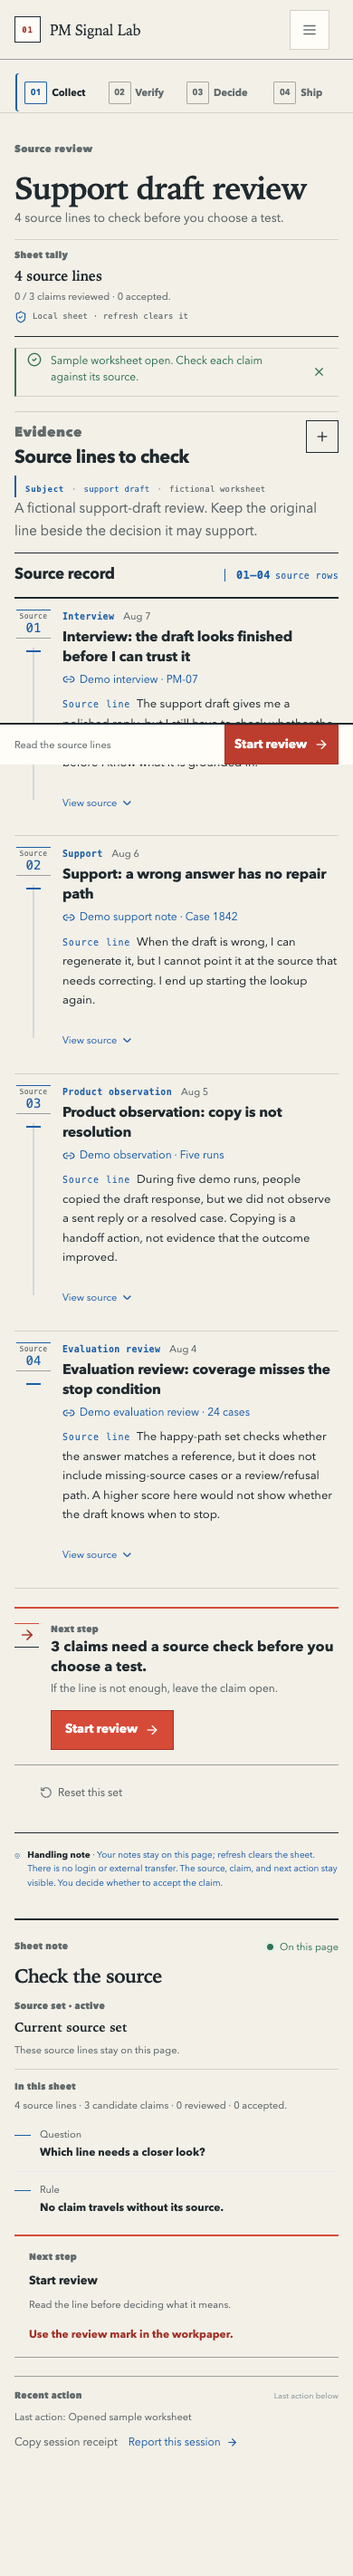
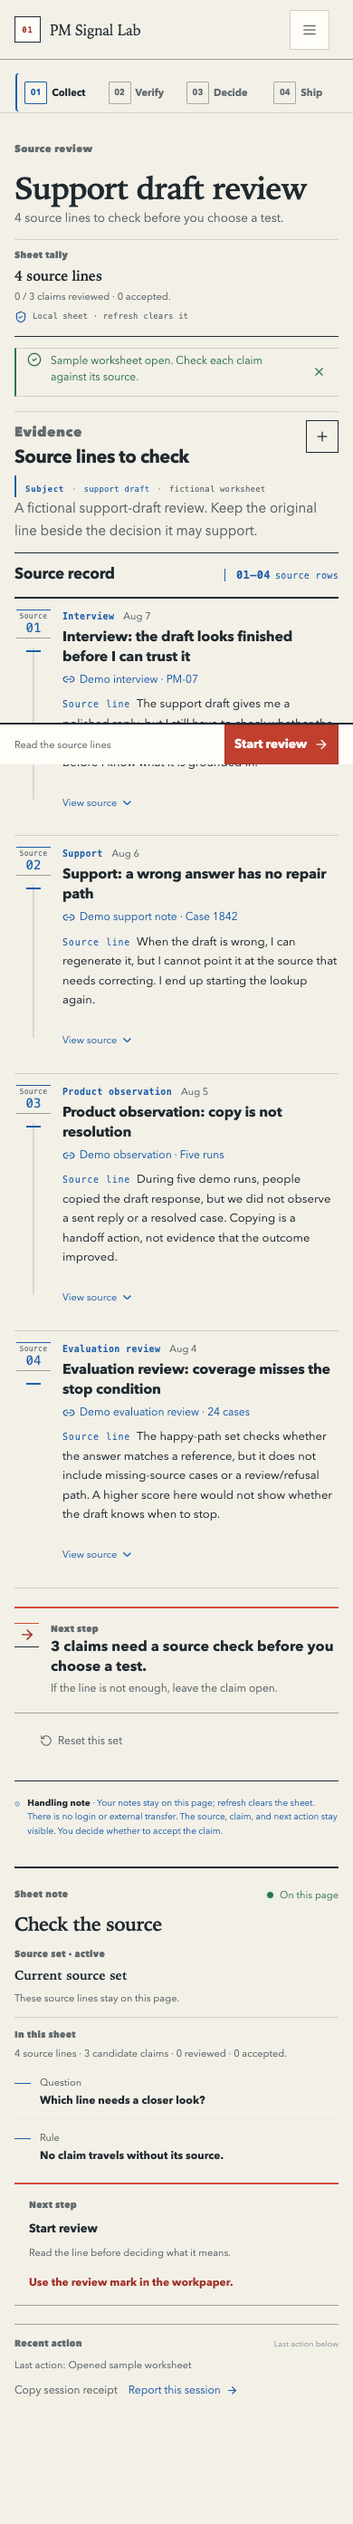
Make current action ownership explicit

diff --git a/src/App.tsx b/src/App.tsx
@@ -671,7 +671,6 @@ function App() {
                 <p>{pack ? `${reviewedCount} / ${claims.length} claims reviewed · ${supportedCount} accepted.` : "Start with the sample or write down one real line from the work."}</p>
                 <span className="hero-status-boundary"><ShieldCheck size={14} aria-hidden="true" />{pack ? "Local sheet · refresh clears it" : SESSION_BOUNDARY_SHORT}</span>
                 {!pack && <div className="hero-status-actions"><button className="button button-primary" type="button" onClick={loadSample} disabled={isLoading}><ClipboardList size={16} aria-hidden="true" />Open the sample worksheet<ArrowRight size={15} aria-hidden="true" /></button></div>}
-                {pack && currentStep === "collect" && claims.length > 0 && <div className="hero-status-actions hero-status-start-review"><button className="button button-primary" type="button" onClick={startReview} data-current-action>Start review<ArrowRight size={15} aria-hidden="true" /></button></div>}
               </div>
             </div>
 

diff --git a/src/styles.css b/src/styles.css
@@ -4213,6 +4213,12 @@ textarea {
   .context-next .context-next-action {
     display: none;
   }
+
+  /* The fixed bar owns the mobile next action. Keep the source-row note
+     useful, but do not ask the user to choose between two identical buttons. */
+  .workbench.is-loaded .next-action-card .button {
+    display: none;
+  }
 }
 
 /* The main landmark receives focus after a state change so screen-reader and

diff --git a/scripts/verify-source-sheet-truth.py b/scripts/verify-source-sheet-truth.py
@@ -65,6 +65,8 @@ def run_custom_source_flow(page: Page, screenshot_name: str) -> dict[str, object
         "sample_heading_absent": "Support draft review" not in text,
         "sample_boundary_absent": "fictional worksheet" not in text,
         "subject_aria_label": aria_label,
+        "visible_current_actions": page.locator("[data-current-action]:visible").count(),
+        "source_row_action_hidden": not page.locator(".next-action-card .button").is_visible(),
     }
 
 
@@ -97,6 +99,8 @@ def run_sample_source_flow(page: Page, screenshot_name: str) -> dict[str, object
         "custom_boundary_absent": "local sheet" not in text,
         "subject_aria_label": aria_label,
         "owner_value": owner_value,
+        "visible_current_actions": page.locator("[data-current-action]:visible").count(),
+        "hero_action_absent": page.locator(".hero-status .button").count() == 0,
     }
 
 
@@ -147,6 +151,8 @@ with sync_playwright() as playwright:
     assert custom_result["sample_heading_absent"] is True
     assert custom_result["sample_boundary_absent"] is True
     assert custom_result["subject_aria_label"] == "Sheet: your source notes, local sheet"
+    assert custom_result["visible_current_actions"] == 1
+    assert custom_result["source_row_action_hidden"] is True
     assert sample_result["heading_present"] is True
     assert sample_result["sample_subject_present"] is True
     assert sample_result["sample_boundary_present"] is True
@@ -154,6 +160,8 @@ with sync_playwright() as playwright:
     assert sample_result["custom_boundary_absent"] is True
     assert sample_result["subject_aria_label"] == "Subject: support draft, fictional worksheet"
     assert sample_result["owner_value"] == "Owner to confirm before the test"
+    assert sample_result["visible_current_actions"] == 1
+    assert sample_result["hero_action_absent"] is True
     assert browser_errors == []
     assert request_failures == []
 

diff --git a/docs/product/pm-signal-lab/111-single-primary-action-ownership-local-qa-2026-08-16.md b/docs/product/pm-signal-lab/111-single-primary-action-ownership-local-qa-2026-08-16.md
@@ -1,0 +1,142 @@
+# PM Signal Lab — Single-primary-action ownership local QA — 2026-08-16
+
+## Result
+
+The action-ownership correction passes the local candidate gate. The loaded
+worksheet now exposes one visible current action at the tested mobile and
+desktop widths:
+
+- `390×844`: the fixed bottom bar owns `Start review`; the source-row block
+  keeps the next-step explanation but its duplicate button is not visible.
+- `1440×1000`: the source-row `Next step` block owns `Start review`; the hero
+  `Sheet tally` has no action button.
+
+The source identity checks still pass, the workflow transition remains usable,
+and no browser error or request failure was observed. This is local evidence,
+not a hosted release or a non-owner usability result.
+
+## Finding and fix
+
+Fresh visual review found the same primary action repeated in multiple places:
+the loaded desktop hero and source-row block both showed `Start review`; the
+loaded mobile screen showed the source-row button and the fixed bottom action.
+The correction removes only the duplicate render locations. It preserves the
+existing `nextAction` callbacks, source-row explanation, fixed mobile action,
+and downstream `Collect → Verify → Decide → Ship` flow.
+
+## Acceptance matrix
+
+| Case | Starting state and task | Expected oracle | Result | Evidence |
+| --- | --- | --- | --- | --- |
+| QA-ACTION-001 | Manual source saved at `390×844` | Exactly one visible `[data-current-action]`; source-row button hidden; fixed bar says `Start review` | PASS | `npm run verify:source-truth`; custom 390 screenshot |
+| QA-ACTION-002 | Sample opened at `1440×1000` | Exactly one visible `[data-current-action]`; hero has no action button; source-row button remains | PASS | `npm run verify:source-truth`; sample 1440 screenshot |
+| QA-ACTION-003 | Loaded normal flow at `390`, `1024`, `1440` | No horizontal overflow; mobile bar only appears at mobile breakpoint | PASS | `/tmp/pm-signal-lab-margin-qa.py` |
+| QA-ACTION-004 | Source identity and owner regression | Manual/sample labels remain mutually exclusive; owner remains actionable | PASS | `npm run verify:source-truth` |
+| QA-ACTION-005 | Loading, reset, and replacement | Existing action disablement, static marker, and clean reset remain intact | PASS | `python3 scripts/verify-session-boundary.py` |
+| QA-ACTION-006 | Empty validation, manual reset, refresh, missing evidence | Existing recovery routes remain usable | PASS | `/tmp/pm-signal-lab-edge-qa.py` |
+| QA-ACTION-007 | Production candidate and code hygiene | Tests, lint, build, local copy verifier, and diff check pass | PASS | Commands below |
+| QA-ACTION-008 | Preferred Chrome Extension route | Same flow through the preferred extension harness | BLOCKED | Extension route unavailable in this runtime; Chrome fallback is recorded separately |
+| QA-ACTION-009 | Native AT and physical device | VoiceOver/NVDA/TalkBack and touch behavior | NOT EXECUTED | No native AT or physical-device harness used |
+| QA-ACTION-010 | Canonical Pages readback | Current action ownership is present on the public URL | BLOCKED | Pages still serves the prior bundle; merge/deploy requires explicit approval |
+| QA-ACTION-011 | Non-owner PM preference | Participant can find the one next action without instruction | NOT EXECUTED | Pilot is prepared but no participant evidence was collected |
+
+## Browser and visual evidence
+
+Focused source-truth oracle output:
+
+```text
+custom_source_390:
+  visible_current_actions=1
+  source_row_action_hidden=true
+sample_source_1440:
+  visible_current_actions=1
+  hero_action_absent=true
+browser_errors=[]
+request_failures=[]
+```
+
+Fresh artifacts:
+
+- [manual source sheet at 390px](./assets/qa/custom-source-sheet-truth-390-2026-08-16.png)
+- [fictional sample at 1440px](./assets/qa/custom-source-sheet-truth-sample-1440-2026-08-16.png)
+- [loading guard at 390px](./assets/qa/session-boundary-loading-guard-loading-390-2026-08-16.png)
+
+Visual review checked:
+
+- first read: source title and source record remain ahead of the action;
+- action hierarchy: one red primary action per tested viewport;
+- source relationship: the desktop action stays beside the object it advances;
+- mobile reflow: the fixed bar remains reachable and the source-row block does
+  not leave a blank red-action gap;
+- trust: no assistant badge, confidence meter, spinner, activity feed, or new
+  status layer was introduced;
+- responsive safety: no horizontal clipping or screenshot-only layout trick.
+
+## Command evidence
+
+All commands below ran against the current local production preview at
+`http://127.0.0.1:4179/`, `en-US`, with synthetic privacy-safe input only.
+
+```text
+npm test -- --run
+  4 files passed · 11 tests passed
+
+npm run lint
+  tsc --noEmit passed
+
+npm run build
+  Vite 7.3.6 · index-5r46Fikq.js · index-ByNjNY-f.css
+
+HOSTED_URL=http://127.0.0.1:4179/ npm run verify:hosted
+  HTTP 200 · en-US · current copy present · stale copy absent
+  canonical_https=false (expected for localhost)
+
+npm run verify:source-truth
+  visible_current_actions=1 at 390px and 1440px
+  source_row_action_hidden=true at 390px
+  hero_action_absent=true at 1440px
+  browser_errors=[] · request_failures=[]
+
+python3 scripts/verify-session-boundary.py
+  loading/reset boundary passed
+  sample_button_disabled_during_loading=true
+  loading_marker_animation=none
+  expanded_source_after_reset=false
+  browser_errors=[] · request_failures=[]
+
+python3 /tmp/pm-signal-lab-margin-qa.py
+  blank → sample → source disclosure → Verify → accept → Decide → draft → Ship
+  390/1024/1440 responsive checks passed; overflow=false; errors/failures=[]
+
+python3 /tmp/pm-signal-lab-edge-qa.py
+  empty validation, cancel, manual reset, refresh clear, missing evidence passed
+
+git diff --check
+  passed
+```
+
+## QA layer summary
+
+| Layer | Status | Boundary |
+| --- | --- | --- |
+| Domain / type / build | PASS | No domain model or dependency changed. |
+| Browser behavior | PASS | Playwright with local Google Chrome fallback; visible action-count and full workflow checks executed. |
+| Responsive behavior | PASS for emulated widths | `390`, `1024`, and `1440` passed; physical device remains separate. |
+| Accessibility semantics | PASS in fallback | Labels, focus path, landmarks, and hidden duplicate control were checked; native speech unexecuted. |
+| Visual review | PASS for focused slice | Fresh 390/1440 screenshots inspected; no automated pixel baseline is claimed. |
+| Security/privacy | PASS for current boundary | No external request, upload, persistence, secret, provider, or mutation added. |
+| Hosted release | BLOCKED | Canonical Pages remains stale; no merge/deploy in this slice. |
+| Chrome Extension | BLOCKED | Preferred harness unavailable. |
+| Real PM learning | NOT EXECUTED | No non-owner participant sessions or preference evidence. |
+| Adoption / stars | NOT EXECUTED | Local QA is not growth evidence; current public repo stats are not changed by this slice. |
+
+## Rollback and next learning step
+
+Rollback is a focused source/CSS/oracle revert; no data migration or external
+cleanup is required. The next learning step is not another visual embellishment:
+after an approved hosted release, run the prepared international PM sessions
+and record whether users identify the source-row action on desktop and the
+fixed action on mobile without a walkthrough.
+
+This report does not claim the product is bug-free, hosted, officially
+released, adopted, viral, or on a proven path to 10,000 GitHub stars.

diff --git a/README.md b/README.md
@@ -2,7 +2,7 @@
 
 > Keep the source line attached to the decision it may support.
 
-Latest candidate evidence: [custom source-sheet truth contract](./docs/product/pm-signal-lab/108-custom-source-sheet-truth-contract-2026-08-16.md), [custom source-sheet truth local QA](./docs/product/pm-signal-lab/109-custom-source-sheet-truth-local-qa-2026-08-16.md), [static loading-marker contract](./docs/product/pm-signal-lab/106-static-loading-marker-contract-2026-08-16.md), [static loading-marker local QA](./docs/product/pm-signal-lab/107-static-loading-marker-local-qa-2026-08-16.md), [session-boundary reset and loading-guard contract](./docs/product/pm-signal-lab/104-session-boundary-reset-and-loading-guard-contract-2026-08-16.md), and the [machine-readable QA evidence manifest](./docs/product/pm-signal-lab/qa-evidence-manifest-2026-08-16.json). The current local candidate passed the source-identity browser oracle at `390×844` and `1440×1000`, plus the existing normal, edge, responsive, semantic, session-boundary, static-loading, and local production-preview copy checks; the preferred Chrome Extension route and canonical Pages behavior still require separate evidence.
+Latest candidate evidence: [single-primary-action ownership contract](./docs/product/pm-signal-lab/110-single-primary-action-ownership-contract-2026-08-16.md), [single-primary-action ownership local QA](./docs/product/pm-signal-lab/111-single-primary-action-ownership-local-qa-2026-08-16.md), [custom source-sheet truth contract](./docs/product/pm-signal-lab/108-custom-source-sheet-truth-contract-2026-08-16.md), [custom source-sheet truth local QA](./docs/product/pm-signal-lab/109-custom-source-sheet-truth-local-qa-2026-08-16.md), [static loading-marker contract](./docs/product/pm-signal-lab/106-static-loading-marker-contract-2026-08-16.md), [static loading-marker local QA](./docs/product/pm-signal-lab/107-static-loading-marker-local-qa-2026-08-16.md), [session-boundary reset and loading-guard contract](./docs/product/pm-signal-lab/104-session-boundary-reset-and-loading-guard-contract-2026-08-16.md), and the [machine-readable QA evidence manifest](./docs/product/pm-signal-lab/qa-evidence-manifest-2026-08-16.json). The current local candidate passed the source-identity and action-ownership browser oracle at `390×844` and `1440×1000`, plus the existing normal, edge, responsive, semantic, session-boundary, static-loading, and local production-preview copy checks; the preferred Chrome Extension route and canonical Pages behavior still require separate evidence.
 
 PM Signal Lab is a local-first product evidence worksheet for turning raw signals into source-linked claims, human review decisions, and the smallest next test. The public fixture uses a fictional support-draft review because the portfolio is meant to show AI-PM judgment; the working surface leads with the PM case and keeps AI context out of the visual chrome.
 
@@ -16,7 +16,7 @@ PM Signal Lab is a local-first product evidence worksheet for turning raw signal
 
 **International pilot operations:** The human-reviewed channel drafts, evidence-safe message contract, and weekly learning loop are in the [international pilot launch kit](./docs/operations/international-pilot-launch-kit-2026-08-15.md).
 
-**Design and QA evidence:** The current visual direction and current-turn evidence are in the [custom source-sheet truth contract](./docs/product/pm-signal-lab/108-custom-source-sheet-truth-contract-2026-08-16.md), [custom source-sheet truth local QA](./docs/product/pm-signal-lab/109-custom-source-sheet-truth-local-qa-2026-08-16.md), [static loading-marker contract](./docs/product/pm-signal-lab/106-static-loading-marker-contract-2026-08-16.md), [static loading-marker local QA](./docs/product/pm-signal-lab/107-static-loading-marker-local-qa-2026-08-16.md), [session-boundary reset and loading-guard contract](./docs/product/pm-signal-lab/104-session-boundary-reset-and-loading-guard-contract-2026-08-16.md), and [QA evidence manifest](./docs/product/pm-signal-lab/qa-evidence-manifest-2026-08-16.json). The preceding [less-AI workpaper second-polish contract](./docs/product/pm-signal-lab/100-less-ai-workpaper-second-polish-contract-2026-08-16.md), [local QA report](./docs/product/pm-signal-lab/101-less-ai-workpaper-second-polish-local-qa-2026-08-16.md), [source-first chrome simplification contract](./docs/product/pm-signal-lab/98-source-first-chrome-simplification-contract-2026-08-16.md), and [local QA report](./docs/product/pm-signal-lab/99-source-first-chrome-simplification-local-qa-2026-08-16.md) remain as the release trail.
+**Design and QA evidence:** The current visual direction and current-turn evidence are in the [single-primary-action ownership contract](./docs/product/pm-signal-lab/110-single-primary-action-ownership-contract-2026-08-16.md), [single-primary-action ownership local QA](./docs/product/pm-signal-lab/111-single-primary-action-ownership-local-qa-2026-08-16.md), [custom source-sheet truth contract](./docs/product/pm-signal-lab/108-custom-source-sheet-truth-contract-2026-08-16.md), [custom source-sheet truth local QA](./docs/product/pm-signal-lab/109-custom-source-sheet-truth-local-qa-2026-08-16.md), [static loading-marker contract](./docs/product/pm-signal-lab/106-static-loading-marker-contract-2026-08-16.md), [static loading-marker local QA](./docs/product/pm-signal-lab/107-static-loading-marker-local-qa-2026-08-16.md), [session-boundary reset and loading-guard contract](./docs/product/pm-signal-lab/104-session-boundary-reset-and-loading-guard-contract-2026-08-16.md), and [QA evidence manifest](./docs/product/pm-signal-lab/qa-evidence-manifest-2026-08-16.json). The preceding [less-AI workpaper second-polish contract](./docs/product/pm-signal-lab/100-less-ai-workpaper-second-polish-contract-2026-08-16.md), [local QA report](./docs/product/pm-signal-lab/101-less-ai-workpaper-second-polish-local-qa-2026-08-16.md), [source-first chrome simplification contract](./docs/product/pm-signal-lab/98-source-first-chrome-simplification-contract-2026-08-16.md), and [local QA report](./docs/product/pm-signal-lab/99-source-first-chrome-simplification-local-qa-2026-08-16.md) remain as the release trail.
 
 This is an AI product manager portfolio project by [John Wu](https://github.com/asdc163). The product demonstrates evidence handling, uncertainty, experiment design, and honest handoff. It does not pretend that a deterministic fixture is a model, that a copied summary is adoption, or that an exported brief is a completed decision.
 

diff --git a/DESIGN.md b/DESIGN.md
@@ -44,14 +44,15 @@ The visual signature is a quiet workpaper: the workflow is a thin paper index, t
 - First read: `Support draft review` under the `Source review` label when loaded, or `Start with a source line` on first run; the workflow index remains quiet context.
 - Manual-source first read: after a visitor saves their own line, use `Your source sheet` and `your source notes · local sheet`; never reuse the fictional sample's subject labels for a custom pack.
 - Second read: the case subject, source rows, source mapping, date, limitation, and review mark.
-- Primary action: one step-specific CTA; loaded desktop exposes `Start review`
-  beside the `Sheet tally`, while mobile keeps the fixed action bar.
+- Primary action: one step-specific CTA; loaded desktop places `Start review`
+  after the source record, while mobile keeps the fixed action bar. The
+  `Sheet tally` is status only and never competes with the source action.
 - Content relationship: `Source → Claim → Smallest test`; use a stepper, rows, split areas, and definition lists before adding cards.
 - Desktop density: medium-high. Mobile density: stacked medium.
 - Alignment spine: `Source review` label → case title → `Source lines to check` → ruled source record. The workflow index is navigation, not a persistent dashboard rail; the `Sheet note` stays below the workpaper.
 - Layout archetype: quiet workpaper + index strip + annotated source rows + desk summary.
 - Responsive reflow: the desktop index becomes the existing top stepper below 1024px; the desk summary remains below the workbench; the primary CTA becomes the single sticky bottom action on mobile while the context note keeps only the question and rule.
-- Loaded state: when the pack exists, the masthead uses `Support draft review` once, the pack header uses the `Evidence` eyebrow plus `Source lines to check`, and the subject line identifies `support draft · fictional worksheet`. The desktop topbar keeps only the local worksheet boundary instead of repeating the case title. AI-PM framing remains in the repository and fixture boundary, not as a visual badge. The source lines end in a `Next step` with the actual claim count and the primary `Start review` action; the `Sheet note` records one question, one rule, actual counts, and the current next action. This is domain-state reflow, not fake AI activity.
+- Loaded state: when the pack exists, the masthead uses `Support draft review` once, the pack header uses the `Evidence` eyebrow plus `Source lines to check`, and the subject line identifies `support draft · fictional worksheet`. The desktop topbar keeps only the local worksheet boundary instead of repeating the case title. AI-PM framing remains in the repository and fixture boundary, not as a visual badge. The `Sheet tally` reports the current state without an action; the source lines end in a `Next step` with the actual claim count and the only desktop `Start review` action; the `Sheet note` records one question, one rule, actual counts, and the current next action. This is domain-state reflow, not fake AI activity.
 - Manual source state: when the pack was created from visitor-entered evidence, the masthead uses `Your source sheet`, the subject line uses `your source notes · local sheet`, and the sample-only `fictional worksheet` boundary is absent. The evidence row remains literal and the local refresh-clears boundary stays adjacent to the source.
 - Operational worksheet reframe: the loaded hero uses `Source review` and a literal `Sheet tally`, the context uses `Sheet note`, `Source set`, and `In this sheet`, and the first source row enters earlier with a quieter sans-led masthead. These labels name the visible work instead of implying an invisible system state.
 - Evidence-ledger colour pass: in the loaded state, repeated red shell labels and navigation cues are quieted; source numbers, source type, subject, and provenance use trust blue; only the review CTA and next-action marker stay red. The words still name each trust state, so colour never becomes the sole status signal.
@@ -166,6 +167,8 @@ font-family-mono: "JetBrains Mono", "SFMono-Regular", Consolas, monospace;
 - Session boundary, reset, and loading-guard local QA: [`105-session-boundary-reset-and-loading-guard-local-qa-2026-08-16.md`](./docs/product/pm-signal-lab/105-session-boundary-reset-and-loading-guard-local-qa-2026-08-16.md).
 - Custom source-sheet truth contract: [`108-custom-source-sheet-truth-contract-2026-08-16.md`](./docs/product/pm-signal-lab/108-custom-source-sheet-truth-contract-2026-08-16.md).
 - Custom source-sheet truth local QA: [`109-custom-source-sheet-truth-local-qa-2026-08-16.md`](./docs/product/pm-signal-lab/109-custom-source-sheet-truth-local-qa-2026-08-16.md).
+- Single-primary-action ownership contract: [`110-single-primary-action-ownership-contract-2026-08-16.md`](./docs/product/pm-signal-lab/110-single-primary-action-ownership-contract-2026-08-16.md).
+- Single-primary-action ownership local QA: [`111-single-primary-action-ownership-local-qa-2026-08-16.md`](./docs/product/pm-signal-lab/111-single-primary-action-ownership-local-qa-2026-08-16.md).
 
 - Current candidate screenshot set, captured locally on 2026-08-16: [blank mobile](./docs/product/pm-signal-lab/assets/qa/less-ai-margin-note-evidence-state-blank-390-2026-08-16.png), [loaded mobile](./docs/product/pm-signal-lab/assets/qa/less-ai-margin-note-evidence-state-loaded-390-2026-08-16.png), [Decide](./docs/product/pm-signal-lab/assets/qa/less-ai-margin-note-evidence-state-decide-390-2026-08-16.png), [Ship mobile](./docs/product/pm-signal-lab/assets/qa/less-ai-margin-note-evidence-state-ship-390-2026-08-16.png), [tablet](./docs/product/pm-signal-lab/assets/qa/less-ai-margin-note-evidence-state-loaded-1024-2026-08-16.png), and [desktop](./docs/product/pm-signal-lab/assets/qa/less-ai-margin-note-evidence-state-loaded-1440-2026-08-16.png).
 - Session-boundary screenshots: [loading guard](./docs/product/pm-signal-lab/assets/qa/session-boundary-loading-guard-loading-390-2026-08-16.png), [clean loaded worksheet](./docs/product/pm-signal-lab/assets/qa/session-boundary-loading-guard-loaded-390-2026-08-16.png), and [clean worksheet after reset](./docs/product/pm-signal-lab/assets/qa/session-boundary-loading-guard-reset-390-2026-08-16.png).

diff --git a/docs/product/pm-signal-lab/110-single-primary-action-ownership-contract-2026-08-16.md b/docs/product/pm-signal-lab/110-single-primary-action-ownership-contract-2026-08-16.md
@@ -1,0 +1,106 @@
+# PM Signal Lab — Single-primary-action ownership contract — 2026-08-16
+
+## Problem frame
+
+- **Decision:** Make one visible control own the current workflow action at a
+  time. Loaded desktop should act from the source record; loaded mobile should
+  act from the fixed bottom bar.
+- **User/job:** An international PM should know where to act after reading the
+  source lines without comparing identical `Start review` buttons.
+- **Current workaround:** The worksheet already exposed a source-row next-step
+  action, a loaded hero action, and a mobile fixed action. The controls invoked
+  the same state transition, but their repetition made the page read like a
+  dashboard rather than a working source sheet.
+- **Outcome metric:** In loaded `Collect`, the browser exposes exactly one
+  visible `[data-current-action]` control at `390px` and `1440px`; the source
+  record remains the visual and action anchor.
+- **Evidence:** Fresh local screenshots showed two visible `Start review`
+  buttons in the loaded mobile path and two in the loaded desktop path. The
+  existing design rule already called for one primary action, so this was a
+  concrete implementation mismatch rather than a preference-only change.
+- **Unknowns:** Whether source-row placement is the best location for every
+  non-owner PM remains unverified until the international pilot runs against a
+  current hosted candidate.
+
+## Decision
+
+1. Remove the loaded `Start review` button from the hero `Sheet tally`. The
+   tally remains status and trust context only.
+2. Keep the desktop `Start review` button in the source-row `Next step` block,
+   next to the source object it advances.
+3. On viewports at or below `700px`, keep the fixed bottom bar as the only
+   primary control. The source-row block keeps its explanation and count, but
+   its duplicate button is hidden.
+4. Keep the lower `Sheet note` as a text-only next-step reminder on mobile;
+   this preserves the question/rule context without adding another action.
+
+This is a layout and action-ownership correction. It does not add a feature,
+provider, persistence, analytics, dependency, external mutation, or workflow
+step.
+
+## Product and messaging contract
+
+- **Message job:** Tell the PM what the source record is ready for next.
+- **Source truth:** The sample is deterministic and local-first; the current
+  action only changes local worksheet state.
+- **Positioning:** A source-linked workpaper, not an AI activity console.
+- **Copy architecture:** `Sheet tally` reports state → source rows provide the
+  evidence → `Next step` provides the one action.
+- **No-AI copy guard:** Do not replace the removed button with progress,
+  confidence, assistant, agent, or activity language. The reduction is the
+  product signal.
+
+## UX state matrix
+
+| State | Desktop / tablet | Mobile | Acceptance rule |
+| --- | --- | --- | --- |
+| Blank worksheet | Existing sample and own-signal entry paths | Existing fixed first action | No loaded action rule changes the empty state. |
+| Loaded Collect | One `Start review` in source-row `Next step`; hero tally is status only | One `Start review` in fixed bottom bar; source-row copy is explanatory | Exactly one visible current action; source line remains readable. |
+| Verify / Decide / Ship | Existing step-specific action ownership remains | Existing fixed bar owns the current action; lower context remains text-only | No new duplicate action is introduced in later steps. |
+| Reset / refresh | Existing clean empty state | Existing clean empty state | No stale action or hidden duplicate remains after recovery. |
+
+## Engineering boundary
+
+- **Changed surfaces:** `src/App.tsx`, `src/styles.css`, and the committed
+  `scripts/verify-source-sheet-truth.py` browser oracle.
+- **State flow:** Existing `nextAction` and state transitions remain the source
+  of truth. Only render ownership changes; no callback or domain model is
+  duplicated.
+- **Responsive rule:** The existing `700px` breakpoint owns the mobile
+  duplicate suppression. The desktop source-row control remains visible.
+- **Accessibility:** Hidden duplicate controls are removed from the rendered
+  accessibility tree by `display: none`; the remaining visible control keeps
+  its existing label, focus path, and `data-current-action` marker.
+- **Out of scope:** native VoiceOver/NVDA/TalkBack speech, physical-device
+  touch behavior, hosted deployment, participant comprehension, telemetry,
+  adoption, and star movement.
+
+## Verification gate
+
+- Keep the existing Vitest, TypeScript, build, local hosted-copy, session
+  boundary, responsive, semantic, edge, and source-truth checks green.
+- Extend the source-truth browser oracle to assert one visible current action
+  at `390×844` and `1440×1000`.
+- Inspect fresh custom mobile and sample desktop screenshots for a single red
+  action, clear source-row anchoring, no overflow, and no new AI-like status
+  layer.
+- Record the canonical hosted URL as blocked until an explicitly approved
+  merge/deploy and a fresh HTTPS readback.
+
+## Risk and rollback
+
+- **Risk:** A user may prefer the upper action for quick access, or a hidden
+  mobile source-row control may be mistaken for a missing feature.
+- **Mitigation:** The source-row action remains prominent on desktop; the
+  fixed mobile bar stays visible and names the action; the source-row text
+  still explains why the action is next.
+- **Rollback:** Revert the focused App/CSS/oracle commit. No migration,
+  permission, dependency, or external-state cleanup is needed.
+
+## Evidence boundary
+
+This contract can prove action-count and placement invariants in the local
+browser candidate. It cannot prove that all non-owner PMs prefer the selected
+placement, that the hosted Pages bundle is current, that native assistive
+technology announces the same behavior, or that the product will gain users or
+GitHub stars.
